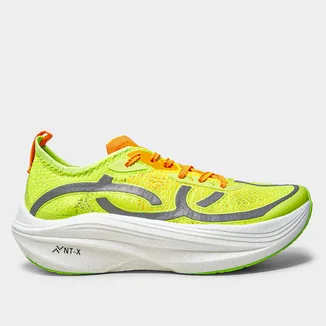
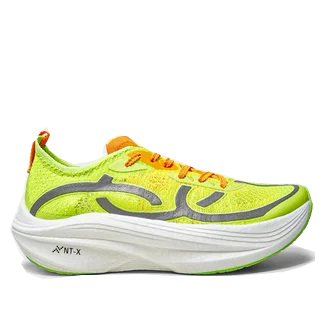
FIX, corrigido png das imagens e iniciando script para geração dos cards

diff --git a/style.css b/style.css
@@ -65,7 +65,7 @@ main{
     justify-content: center;
 }
 .heading__produtos{
-    width: 590px;
+    max-width: 590px;
     height: 100%;
     margin-bottom: 72px;
 }
@@ -88,7 +88,7 @@ main{
     justify-content: center;
 }
 .card__produto{
-    width: 384px;
+    width: 334px;
     height: 326px;
 }
 .card__produto figure{
@@ -115,5 +115,94 @@ main{
     font-size: 18px;
     line-height: 28px;
     font-family: 'Space Grotesk', sans-serif;
+
+}
+
+
+/* Responsividade */
+@media (max-width: 768px) {
+    
+    .top_fixed {
+        height: 41px;
+        font-size: 16px;
+    }
+
+    .hero {
+        height: 350px;
+    }
+
+    .hero__content h1 {
+        font-size: 18px;
+    }
+
+    .hero__content h2 {
+        font-size: 24px;
+    }
+
+    .hero__content p {
+        font-size: 18px;
+        line-height: 28px;
+    }
+
+    .heading__produtos {
+        padding-inline: 20px;
+    }
+
+    .heading__produtos h3 {
+        font-size: 24px;
+    }
+
+    .heading__produtos p {
+        font-size: 16px;
+        line-height: 26px;
+    }
+
+    .lista__produtos {
+        margin-block: 32px;
+        gap: 32px;
+    }
+
+    .card__produto_detalhes h4 {
+        font-size: 18px;
+    }
+
+    .card__produto_detalhes h5 {
+        font-size: 16px;
+    }
+
+    .card__produto h6 {
+        font-size: 20px;
+    }
+
+}
+
+@media (max-width: 375px) {
+
+    .top_fixed {
+        height: 39px;
+    }
+
+    .hero__content p {
+        font-size: 16px;
+        line-height: 26px;
+    }
+
+    .heading__produtos h3 {
+        font-size: 20px;
+    }
+
+    .heading__produtos p {
+        font-size: 14px;
+        line-height: 24px;
+    }
+
+    .lista__produtos {
+        margin-block: 24px;
+        gap: 24px;
+    }
+
+    .card__produto_detalhes h4 {
+        font-size: 16px;
+    }
 
 }

diff --git a/script.js b/script.js
@@ -1,0 +1,44 @@
+console.log('Jordan Shoes')
+
+const formatCurrency = (number) => {
+  return number.toLocaleString('pt-BR', {
+            style: 'currency',
+            currency: 'BRL',
+    })
+}
+
+const getProducts = async () => {
+    const response = await fetch('js/products.json')
+    const data = await response.json()
+    return data
+}
+
+const generateCard = async () => {
+
+    const products = await getProducts()
+
+    products.map(product => {
+        let card = document.createElement('div')
+        card.classList.add('card__produto')
+        
+        card.innerHTML = `
+        <figure>
+            <img src="images/${product.image}" alt="${product.product_name}" />
+        </figure>
+
+        <div class="card__produto_detalhes">
+            <h4>${product.product_name}</h4>
+            <h5>${product.product_model}</h5>
+        </div>
+
+        <h6>R$ ${product.price}</h6>
+        `
+
+        const listaProdutos = document.querySelector('.lista__produtos')
+        listaProdutos.appendChild(card)
+
+    })
+   
+}
+
+generateCard()
